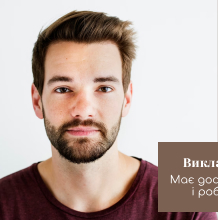
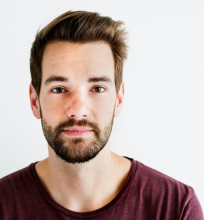
team section / media finished feedback section / desctop markup finished

diff --git a/app/css/style.min.css b/app/css/style.min.css
@@ -1,1 +1,1 @@
-html{-webkit-box-sizing:border-box;box-sizing:border-box}*,*::after,*::before{-webkit-box-sizing:inherit;box-sizing:inherit}body{font-family:"Comfortaa",cursive;font-size:14px;font-weight:400;line-height:1.2;color:#000}a{text-decoration:none;color:inherit}ul{list-style:none}button{padding:0;border:none;border-radius:0;background-color:rgba(0,0,0,0)}.container{max-width:1180px;padding-left:10px;padding-right:10px;margin:0 auto;padding:0 10px}.section{padding-bottom:150px}.section--decor{position:relative}.section--decor::before{content:"";position:absolute;left:0;bottom:0;background-image:url(../img/section-decor.png);width:22px;height:30px}.section--decor::after{content:"";position:absolute;left:22px;bottom:13px;width:1000%;height:1px;background-color:#7b6152}.title{margin-bottom:15px;font-family:"Yeseva One",cursive;font-size:40px;font-weight:400}.button{padding:18px 54px;font-family:"Comfortaa",cursive;font-size:14px;font-weight:600;background-color:#ffbd59;cursor:pointer}.header{background-color:#fff8f3}.header__inner{padding-top:4px;display:-webkit-box;display:-ms-flexbox;display:flex;-webkit-box-pack:justify;-ms-flex-pack:justify;justify-content:space-between;-webkit-box-align:center;-ms-flex-align:center;align-items:center}.menu__list{display:-webkit-box;display:-ms-flexbox;display:flex;gap:20px}.menu__list-link{text-transform:uppercase}.menu__btn{display:none;-webkit-box-orient:vertical;-webkit-box-direction:normal;-ms-flex-direction:column;flex-direction:column;-webkit-box-pack:justify;-ms-flex-pack:justify;justify-content:space-between;width:30px;height:25px}.menu__btn span{width:100%;height:1px;background-color:#7b6152}.phone{position:relative}.phone::before{position:absolute;content:"";background-image:url(../img/phone.svg);width:20px;height:20px;top:-3px;left:-23px}.main{background-color:#fff8f3;overflow-x:clip}.top{padding:40px 0 150px}.top__inner{position:relative}.top__content{padding:150px 0 250px;width:370px}.top__title{margin-bottom:15px;font-family:"Yeseva One",cursive;font-size:30px;font-weight:400}.top__text{margin-bottom:48px}.top__buy{padding:18px 54px;font-family:"Comfortaa",cursive;font-size:14px;font-weight:600;background-color:#ffbd59;cursor:pointer}.top__img{position:absolute;top:0;left:240px}.about{margin-bottom:150px;padding:50px 0;color:#fafafa;background-color:#a5978e}.about__inner{display:-webkit-box;display:-ms-flexbox;display:flex;-webkit-box-align:center;-ms-flex-align:center;align-items:center}.about__content{width:370px}.about__text{margin-bottom:15px}.about__list{padding-left:110px;padding-bottom:48px;display:-webkit-box;display:-ms-flexbox;display:flex;-webkit-box-align:center;-ms-flex-align:center;align-items:center;gap:0 20px;-ms-flex-preferred-size:930px;flex-basis:930px}.about__item-img{margin-bottom:10px}.about__item-text{font-size:11px}.products__content{gap:50px 90px}.products__item{margin:0 auto;width:290px;text-align:center}.products__item-img{margin-bottom:8px}.products__item-price{margin-bottom:12px;font-family:"Yeseva One",cursive;font-size:16px;font-weight:400}.products__item-title{margin-bottom:16px;font-family:"Yeseva One",cursive;font-size:16px;font-weight:400}.products__item-text{margin-bottom:27px;font-size:12px}.section__inner{display:grid;grid-template-columns:370px auto}.section__content-descr{padding-bottom:92px;display:grid;grid-template-columns:auto auto}.steps__list{gap:70px 25px;counter-reset:number}.steps__item{position:relative;display:-webkit-box;display:-ms-flexbox;display:flex;gap:40px;list-style:none}.steps__item::before{position:absolute;left:0;bottom:0;counter-increment:number;content:"0" counter(number);font-family:"Yeseva One",cursive;font-size:30px;color:#bea495}.steps__item--even::before{right:0;left:auto}.steps__item:nth-child(n+10)::before{content:counter(number)}.steps__item-text{padding-bottom:40px;-ms-flex-preferred-size:174px;flex-basis:174px}.courses__item-img{position:relative;font-family:"Yeseva One",cursive;font-size:11px;color:#fff}.courses__title{position:absolute;top:45%;left:-1px;padding:15px;background-color:#bea495}.courses__time{position:absolute;top:60%;left:-1px;padding:7px 10px;background-color:#bea495}.courses__time span{font-family:Comfortaa;font-size:10px}.courses__price{position:absolute;right:12px;bottom:0px;padding:19px 10px;background-color:#bea495}.team{margin-bottom:150px;padding:80px 0 60px;color:#fff;background-color:#a5978e}.team__content{padding-bottom:0;gap:75px}.team__item{position:relative}.team__item-box{width:165px;padding:15px 10px 16px;position:absolute;right:33px;bottom:8px;text-align:center;background-color:#7b6152;z-index:4}.team__item-name{font-family:"Yeseva One",cursive;font-size:12px}.team__item-descr{font-size:10px}.footer{padding-top:40px;padding-bottom:35px}.footer__inner{display:-webkit-box;display:-ms-flexbox;display:flex;-webkit-box-pack:justify;-ms-flex-pack:justify;justify-content:space-between;-webkit-box-align:center;-ms-flex-align:center;align-items:center}.footer__contacts{width:230px;display:-webkit-box;display:-ms-flexbox;display:flex;-webkit-box-orient:vertical;-webkit-box-direction:normal;-ms-flex-direction:column;flex-direction:column}.footer__social{display:-webkit-box;display:-ms-flexbox;display:flex;gap:15px}.email{margin:17px 0}@media(max-width: 1050px){.steps__item{gap:0 30px}.steps__list{gap:37px 35px}}@media(max-width: 1000px){.container{padding-left:20px;padding-right:20px}.top__content{padding:95px 0 70px;width:333px}.top__img{left:300px}.top__img-l{width:655px}.top__text{margin-bottom:30px}.about__content{width:300px}.about__list{padding-left:20px}.section__inner{grid-template-columns:290px auto;gap:0 10px}.section__text{font-size:10px}.products__content{gap:67px}}@media(max-width: 980px){.steps__title{font-size:30px}.steps__list{gap:25px 35px}.steps__item{gap:0 20px}.steps__item::before{font-size:20px}.steps__item-img{width:85px;-o-object-fit:cover;object-fit:cover}.steps__item-text{font-size:8px}}@media(max-width: 900px){.section__inner{grid-template-columns:200px auto}.products__content{gap:30px 16px}.footer__inner{-ms-flex-wrap:wrap;flex-wrap:wrap}.footer__contacts{padding-top:15px;width:100%;text-align:center}.footer__social{-webkit-box-pack:center;-ms-flex-pack:center;justify-content:center}}@media(max-width: 768px){body{font-size:10px}.container{max-width:640px}.phone::before{width:14px;height:14px;top:-2px;left:-16px;background-size:cover}.top__content{width:230px}.top__title{margin-bottom:20px;font-size:20px}.top__text{margin-bottom:20px}.top__img{left:180px}.about__content{min-width:200px}.about__title{margin-bottom:20px}.about__list{margin-left:27px;margin-bottom:33px;gap:0 10px}.about_item-img{margin-bottom:6px}.about__item-img--size{width:120px}.about__item-img--length{width:190px}.about__item-text{font-size:6px}.title{font-size:15px}.products__item{width:200px}.products__item-img{margin-bottom:6px;width:200px}.products__item-price{margin-bottom:7px;font-size:12px}.products__item-title{margin-bottom:9px;font-size:12px}.products__item-text{margin-bottom:18px;font-size:8px}.button{padding:10px 26px;font-size:12px}.courses__title{padding:6px;top:40%;left:-1px}.courses__time{padding:5px;top:55%;left:-1px}.courses__price{padding:10px;right:0}}@media(max-width: 640px){.container{padding-left:10px;padding-right:10px}.header__menu{-webkit-box-ordinal-group:2;-ms-flex-order:1;order:1}.header__menu-list{position:absolute;top:0;left:0;width:153px;padding:25px 35px 25px 45px;-webkit-box-orient:vertical;-webkit-box-direction:normal;-ms-flex-direction:column;flex-direction:column;-webkit-transform:translateY(-110%);-ms-transform:translateY(-110%);transform:translateY(-110%);-webkit-transition:-webkit-transform .5s ease;transition:-webkit-transform .5s ease;transition:transform .5s ease;transition:transform .5s ease,-webkit-transform .5s ease;color:#fff8f3;background-color:#7b6152;z-index:5}.header__menu-list.menu--open{-webkit-transform:translateY(0%);-ms-transform:translateY(0%);transform:translateY(0%)}.menu__btn{display:-webkit-box;display:-ms-flexbox;display:flex}.section__inner{display:block}.section__descr{margin-bottom:30px;text-align:center}}@media(max-width: 480px){.top{padding:30px 0 50px}.top__content{width:180px}.top__title{margin-bottom:15px;font-size:15px}.top__text{margin-bottom:15px;font-size:8px}.top__img{left:167px}.top__img-l{width:309px}.top__buy{padding:14px 41px;font-size:10px}.about{margin-bottom:50px}.about__inner{-webkit-box-align:end;-ms-flex-align:end;align-items:flex-end}.about__content{max-width:170px}.about__list{margin-left:0;margin-bottom:0;padding-left:10px;gap:0 5px;-webkit-box-align:end;-ms-flex-align:end;align-items:flex-end}.about__item-img--size{width:80px}.about__item-img--length{width:140px}.about__item-text{display:none}.section{padding-bottom:50px}.section__content-descr{padding-bottom:62px}.section__descr{margin:0 auto 30px;width:300px}.steps__list{gap:25px 40px}.footer{padding:50px 0;font-size:14px}.footer__inner{-webkit-box-orient:vertical;-webkit-box-direction:normal;-ms-flex-direction:column;flex-direction:column}.footer__menu{padding:50px 0;text-align:center}.footer__menu-list{-webkit-box-orient:vertical;-webkit-box-direction:normal;-ms-flex-direction:column;flex-direction:column}}@media(max-width: 404px){.steps__list{gap:20px 25px}.steps__item{gap:0 16px}.steps__item-img{width:66px}.steps__item-text{font-size:6px}.courses__content{grid-template-columns:auto}}@media(max-width: 360px){.top__content{padding:20px 0 0;width:200px}.top__title{font-size:18px}.top__text{font-size:10px}.top__img{left:auto;right:0}.top__img-l{width:180px}body{font-size:8px}.about{padding-top:25px;padding-bottom:10px}.about__content{min-width:233px}.about__list{margin-left:12px;padding-left:12px;padding-bottom:30px;gap:0 15px}.about__item-img--length{display:none}.title{margin-bottom:10px}.section__descr{margin:0 auto 25px;width:235px}.products__item{width:150px}.products__content{gap:40px 7px}.products__item-img{width:150px}.products__item-price{margin-bottom:5px;font-size:10px}.products__item-title{font-size:10px}.products__item-text{margin-bottom:16px}.button{padding:8px 20px;font-size:8px}.steps__item-text{font-size:6px}.courses__item,.courses__item img{width:255px}}
+html{-webkit-box-sizing:border-box;box-sizing:border-box}*,*::after,*::before{-webkit-box-sizing:inherit;box-sizing:inherit}body{font-family:"Comfortaa",cursive;font-size:14px;font-weight:400;line-height:1.2;color:#000}a{text-decoration:none;color:inherit}ul{list-style:none}button{padding:0;border:none;border-radius:0;background-color:rgba(0,0,0,0)}.container{max-width:1180px;padding-left:10px;padding-right:10px;margin:0 auto;padding:0 10px}.section{padding-bottom:150px}.section--decor{position:relative}.section--decor::before{content:"";position:absolute;left:0;bottom:0;background-image:url(../img/section-decor.png);width:22px;height:30px}.section--decor::after{content:"";position:absolute;left:22px;bottom:13px;width:1000%;height:1px;background-color:#7b6152}.title{margin-bottom:15px;font-family:"Yeseva One",cursive;font-size:40px;font-weight:400}.button{padding:18px 54px;font-family:"Comfortaa",cursive;font-size:14px;font-weight:600;background-color:#ffbd59;cursor:pointer}.header{background-color:#fff8f3}.header__inner{padding-top:4px;display:-webkit-box;display:-ms-flexbox;display:flex;-webkit-box-pack:justify;-ms-flex-pack:justify;justify-content:space-between;-webkit-box-align:center;-ms-flex-align:center;align-items:center}.menu__list{display:-webkit-box;display:-ms-flexbox;display:flex;gap:20px}.menu__list-link{text-transform:uppercase}.menu__btn{display:none;-webkit-box-orient:vertical;-webkit-box-direction:normal;-ms-flex-direction:column;flex-direction:column;-webkit-box-pack:justify;-ms-flex-pack:justify;justify-content:space-between;width:30px;height:25px}.menu__btn span{width:100%;height:1px;background-color:#7b6152}.phone{position:relative}.phone::before{position:absolute;content:"";background-image:url(../img/phone.svg);width:20px;height:20px;top:-3px;left:-23px}.main{background-color:#fff8f3;overflow-x:clip}.top{padding:40px 0 150px}.top__inner{position:relative}.top__content{padding:150px 0 250px;width:370px}.top__title{margin-bottom:15px;font-family:"Yeseva One",cursive;font-size:30px;font-weight:400}.top__text{margin-bottom:48px}.top__buy{padding:18px 54px;font-family:"Comfortaa",cursive;font-size:14px;font-weight:600;background-color:#ffbd59;cursor:pointer}.top__img{position:absolute;top:0;left:240px}.about{margin-bottom:150px;padding:50px 0;color:#fafafa;background-color:#a5978e}.about__inner{display:-webkit-box;display:-ms-flexbox;display:flex;-webkit-box-align:center;-ms-flex-align:center;align-items:center}.about__content{width:370px}.about__text{margin-bottom:15px}.about__list{padding-left:110px;padding-bottom:48px;display:-webkit-box;display:-ms-flexbox;display:flex;-webkit-box-align:center;-ms-flex-align:center;align-items:center;gap:0 20px;-ms-flex-preferred-size:930px;flex-basis:930px}.about__item-img{margin-bottom:10px}.about__item-text{font-size:11px}.products__content{gap:50px 90px}.products__item{margin:0 auto;width:290px;text-align:center}.products__item-img{margin-bottom:8px}.products__item-price{margin-bottom:12px;font-family:"Yeseva One",cursive;font-size:16px;font-weight:400}.products__item-title{margin-bottom:16px;font-family:"Yeseva One",cursive;font-size:16px;font-weight:400}.products__item-text{margin-bottom:27px;font-size:12px}.section__inner{display:grid;grid-template-columns:370px auto}.section__content-descr{padding-bottom:92px;display:grid;grid-template-columns:auto auto}.steps__list{gap:70px 25px;counter-reset:number}.steps__item{position:relative;display:-webkit-box;display:-ms-flexbox;display:flex;gap:40px;list-style:none}.steps__item::before{position:absolute;left:0;bottom:0;counter-increment:number;content:"0" counter(number);font-family:"Yeseva One",cursive;font-size:30px;color:#bea495}.steps__item--even::before{right:0;left:auto}.steps__item:nth-child(n+10)::before{content:counter(number)}.steps__item-text{padding-bottom:40px;-ms-flex-preferred-size:174px;flex-basis:174px}.courses__item-img{position:relative;font-family:"Yeseva One",cursive;font-size:11px;color:#fff}.courses__title{position:absolute;top:45%;left:-1px;padding:15px;background-color:#bea495}.courses__time{position:absolute;top:60%;left:-1px;padding:7px 10px;background-color:#bea495}.courses__time span{font-family:Comfortaa;font-size:10px}.courses__price{position:absolute;right:12px;bottom:0px;padding:19px 10px;background-color:#bea495}.team{margin-bottom:150px;padding:80px 0 60px;color:#fff;background-color:#a5978e}.team__content{padding-bottom:0;gap:75px}.team__item{position:relative}.team__item-box{width:165px;padding:15px 10px 16px;position:absolute;right:33px;bottom:8px;text-align:center;background-color:#7b6152;z-index:4}.team__item-name{font-family:"Yeseva One",cursive;font-size:12px}.team__item-descr{font-size:10px}.feedback__descr{margin-right:20px}.feedback__slider{width:760px;overflow:hidden}.feedback__content{padding-bottom:110px}.feedback__content .swiper-pagination{bottom:50px}.feedback__item{display:grid;grid-template-columns:auto auto;gap:0 16px;-webkit-box-align:center;-ms-flex-align:center;align-items:center}.feedback__item-video{position:relative}.feedback__item-videobtn{padding:0;position:absolute;top:50%;left:50%;-webkit-transform:translate(-50%, -50%);-ms-transform:translate(-50%, -50%);transform:translate(-50%, -50%);background-color:rgba(0,0,0,0)}.feedback__item-content{padding-bottom:70px}.feedback__item-sociallink{margin-bottom:12px}.feedback__item-name{margin-bottom:15px;font-family:"Yeseva One",cursive;font-size:16px}.feedback__item-text{margin-bottom:15px;font-size:12px}.feedback__item-btn{position:absolute;right:0;bottom:10px}.swiper-pagination-bullet{width:53px;height:4px;border-radius:0;opacity:1;background-color:#bea495}.swiper-pagination-bullet-active{background-color:#7b6152}.footer{padding-top:40px;padding-bottom:35px}.footer__inner{display:-webkit-box;display:-ms-flexbox;display:flex;-webkit-box-pack:justify;-ms-flex-pack:justify;justify-content:space-between;-webkit-box-align:center;-ms-flex-align:center;align-items:center}.footer__contacts{width:230px;display:-webkit-box;display:-ms-flexbox;display:flex;-webkit-box-orient:vertical;-webkit-box-direction:normal;-ms-flex-direction:column;flex-direction:column}.footer__social{display:-webkit-box;display:-ms-flexbox;display:flex;gap:15px}.email{margin:17px 0}@media(max-width: 1050px){.steps__item{gap:0 30px}.steps__list{gap:37px 35px}}@media(max-width: 1000px){.container{padding-left:20px;padding-right:20px}.top__content{padding:95px 0 70px;width:333px}.top__img{left:300px}.top__img-l{width:655px}.top__text{margin-bottom:30px}.about__content{width:300px}.about__list{padding-left:20px}.section__inner{grid-template-columns:290px auto;gap:0 10px}.section__text{font-size:10px}.products__content{gap:67px}.team{padding:50px 0}.team__content{gap:30px 20px}}@media(max-width: 980px){.steps__title{font-size:30px}.steps__list{gap:25px 35px}.steps__item{gap:0 20px}.steps__item::before{font-size:20px}.steps__item-img{width:85px;-o-object-fit:cover;object-fit:cover}.steps__item-text{font-size:8px}}@media(max-width: 900px){.section__inner{grid-template-columns:200px auto}.products__content{gap:30px 16px}.footer__inner{-ms-flex-wrap:wrap;flex-wrap:wrap}.footer__contacts{padding-top:15px;width:100%;text-align:center}.footer__social{-webkit-box-pack:center;-ms-flex-pack:center;justify-content:center}.team__title{font-size:35px}}@media(max-width: 768px){body{font-size:10px}.container{max-width:640px}.phone::before{width:14px;height:14px;top:-2px;left:-16px;background-size:cover}.top__content{width:230px}.top__title{margin-bottom:20px;font-size:20px}.top__text{margin-bottom:20px}.top__img{left:180px}.about__content{min-width:200px}.about__title{margin-bottom:20px}.about__list{margin-left:27px;margin-bottom:33px;gap:0 10px}.about_item-img{margin-bottom:6px}.about__item-img--size{width:120px}.about__item-img--length{width:190px}.about__item-text{font-size:6px}.title{font-size:15px}.products__item{width:200px}.products__item-img{margin-bottom:6px;width:200px}.products__item-price{margin-bottom:7px;font-size:12px}.products__item-title{margin-bottom:9px;font-size:12px}.products__item-text{margin-bottom:18px;font-size:8px}.button{padding:10px 26px;font-size:12px}.courses__title{padding:6px;top:40%;left:-1px}.courses__time{padding:5px;top:55%;left:-1px}.courses__price{padding:10px;right:0}.team__item-box{width:109px;padding:9px 6px 10px;right:-15px;bottom:6px}.team__item-name{font-family:"Yeseva One",cursive;font-size:8px}.team__item-descr{font-size:7px}.team__img{width:140px}}@media(max-width: 640px){.container{padding-left:10px;padding-right:10px}.header__menu{-webkit-box-ordinal-group:2;-ms-flex-order:1;order:1}.header__menu-list{position:absolute;top:0;left:0;width:153px;padding:25px 35px 25px 45px;-webkit-box-orient:vertical;-webkit-box-direction:normal;-ms-flex-direction:column;flex-direction:column;-webkit-transform:translateY(-110%);-ms-transform:translateY(-110%);transform:translateY(-110%);-webkit-transition:-webkit-transform .5s ease;transition:-webkit-transform .5s ease;transition:transform .5s ease;transition:transform .5s ease,-webkit-transform .5s ease;color:#fff8f3;background-color:#7b6152;z-index:5}.header__menu-list.menu--open{-webkit-transform:translateY(0%);-ms-transform:translateY(0%);transform:translateY(0%)}.menu__btn{display:-webkit-box;display:-ms-flexbox;display:flex}.section__inner{display:block}.section__descr{margin-bottom:30px;text-align:center}.team__item-box{right:auto;left:80px}}@media(max-width: 480px){.top{padding:30px 0 50px}.top__content{width:180px}.top__title{margin-bottom:15px;font-size:15px}.top__text{margin-bottom:15px;font-size:8px}.top__img{left:167px}.top__img-l{width:309px}.top__buy{padding:14px 41px;font-size:10px}.about{margin-bottom:50px}.about__inner{-webkit-box-align:end;-ms-flex-align:end;align-items:flex-end}.about__content{max-width:170px}.about__list{margin-left:0;margin-bottom:0;padding-left:10px;gap:0 5px;-webkit-box-align:end;-ms-flex-align:end;align-items:flex-end}.about__item-img--size{width:80px}.about__item-img--length{width:140px}.about__item-text{display:none}.section{padding-bottom:50px}.section__content-descr{padding-bottom:62px}.section__descr{margin:0 auto 30px;width:300px}.steps__list{gap:25px 40px}.team{margin-bottom:50px}.footer{padding:50px 0;font-size:14px}.footer__inner{-webkit-box-orient:vertical;-webkit-box-direction:normal;-ms-flex-direction:column;flex-direction:column}.footer__menu{padding:50px 0;text-align:center}.footer__menu-list{-webkit-box-orient:vertical;-webkit-box-direction:normal;-ms-flex-direction:column;flex-direction:column}}@media(max-width: 404px){.steps__list{gap:20px 25px}.steps__item{gap:0 16px}.steps__item-img{width:66px}.steps__item-text{font-size:6px}.courses__content{grid-template-columns:auto}.team__content{grid-template-columns:auto}.team__item-box{width:151px;bottom:11px;left:145px}.team__item-name{font-size:12px}.team__item-descr{font-size:10px}.team__img{width:204px}}@media(max-width: 360px){.top__content{padding:20px 0 0;width:200px}.top__title{font-size:18px}.top__text{font-size:10px}.top__img{left:auto;right:0}.top__img-l{width:180px}body{font-size:8px}.about{padding-top:25px;padding-bottom:10px}.about__content{min-width:233px}.about__list{margin-left:12px;padding-left:12px;padding-bottom:30px;gap:0 15px}.about__item-img--length{display:none}.title{margin-bottom:10px}.section__descr{margin:0 auto 25px;width:235px}.products__item{width:150px}.products__content{gap:40px 7px}.products__item-img{width:150px}.products__item-price{margin-bottom:5px;font-size:10px}.products__item-title{font-size:10px}.products__item-text{margin-bottom:16px}.button{padding:8px 20px;font-size:8px}.steps__item-text{font-size:6px}.courses__item,.courses__item img{width:255px}}

diff --git a/app/index.html b/app/index.html
@@ -10,6 +10,7 @@
   <link href="https://fonts.googleapis.com/css2?family=Comfortaa&family=Yeseva+One&display=swap" rel="stylesheet" />
   <title>Document</title>
   <link rel="stylesheet" href="css/reset.css">
+  <link rel="stylesheet" href="https://cdn.jsdelivr.net/npm/swiper@10/swiper-bundle.min.css" />
   <link rel="stylesheet" href="css/style.min.css" />
 </head>
 
@@ -303,7 +304,7 @@
     <section class="team section">
       <div class="container section__inner">
         <div class=" section__descr">
-          <h2 class=" title">
+          <h2 class="team__title title">
             Наші викладачі
           </h2>
           <p class=" section__text">
@@ -340,6 +341,146 @@
             </div>
           </div>
         </div>
+      </div>
+    </section>
+
+    <section class="feedback section">
+      <div class="container section__inner">
+        <div class="feedback__descr section__descr">
+          <h2 class="title">
+            Відгуки від клієнтів
+          </h2>
+          <p class="section__text">
+            Наші покупці мають різний вік, статус, заняття і інтереси, але у них є одна спільна риса - вони прагнуть до
+            гармонії і знаходять радість у маленьких радощах життя, які створюють атмосферу затишку та гармонії у
+            їхньому домі.
+          </p>
+        </div>
+        <div class="feedback__content section--decor">
+          <div class="feedback__slider">
+            <div class="swiper-wrapper">
+              <div class="swiper-slide">
+                <div class="feedback__item">
+                  <div class="feedback__item-video">
+                    <img class="feedback__item-img" src="img/slide.jpg" alt="candle">
+                    <button class="feedback__item-videobtn">
+                      <img class="feedback__item-img" src="img/btn.svg" alt="button">
+                    </button>
+                  </div>
+                  <div class="feedback__item-content">
+                    <a class="feedback__item-sociallink" href="#">
+                      <img src="img/instagram.svg" alt="instagram">
+                    </a>
+                    <p class="feedback__item-name">Іван Пилипенко</p>
+                    <p class="feedback__item-text">
+                      Я замовив свічку в формі сердечка на День Святого Валентина для моєї
+                      дівчини і вона була просто неймовірна! Запах був дуже приємним і романтичним, а форма сердечка
+                      була досконалою для цього свята. Моя дівчина була дуже задоволена подарунком, і я точно замовлю ще
+                      свічок від цього сайту!"
+                    </p>
+                    <button class="button feedback__item-btn">Купити цей товар</button>
+                  </div>
+                </div>
+              </div>
+              <div class="swiper-slide">
+                <div class="feedback__item">
+                  <div class="feedback__item-video">
+                    <img class="feedback__item-img" src="img/slide.jpg" alt="candle">
+                    <button class="feedback__item-videobtn">
+                      <img class="feedback__item-img" src="img/btn.svg" alt="button">
+                    </button>
+                  </div>
+                  <div class="feedback__item-content">
+                    <a class="feedback__item-sociallink" href="#">
+                      <img src="img/instagram.svg" alt="instagram">
+                    </a>
+                    <p class="feedback__item-name">Іван Пилипенко</p>
+                    <p class="feedback__item-text">
+                      Я замовив свічку в формі сердечка на День Святого Валентина для моєї
+                      дівчини і вона була просто неймовірна! Запах був дуже приємним і романтичним, а форма сердечка
+                      була досконалою для цього свята. Моя дівчина була дуже задоволена подарунком, і я точно замовлю ще
+                      свічок від цього сайту!"
+                    </p>
+                    <button class="button feedback__item-btn">Купити цей товар</button>
+                  </div>
+                </div>
+              </div>
+              <div class="swiper-slide">
+                <div class="feedback__item">
+                  <div class="feedback__item-video">
+                    <img class="feedback__item-img" src="img/slide.jpg" alt="candle">
+                    <button class="feedback__item-videobtn">
+                      <img class="feedback__item-img" src="img/btn.svg" alt="button">
+                    </button>
+                  </div>
+                  <div class="feedback__item-content">
+                    <a class="feedback__item-sociallink" href="#">
+                      <img src="img/instagram.svg" alt="instagram">
+                    </a>
+                    <p class="feedback__item-name">Іван Пилипенко</p>
+                    <p class="feedback__item-text">
+                      Я замовив свічку в формі сердечка на День Святого Валентина для моєї
+                      дівчини і вона була просто неймовірна! Запах був дуже приємним і романтичним, а форма сердечка
+                      була досконалою для цього свята. Моя дівчина була дуже задоволена подарунком, і я точно замовлю ще
+                      свічок від цього сайту!"
+                    </p>
+                    <button class="button feedback__item-btn">Купити цей товар</button>
+                  </div>
+                </div>
+              </div>
+              <div class="swiper-slide">
+                <div class="feedback__item">
+                  <div class="feedback__item-video">
+                    <img class="feedback__item-img" src="img/slide.jpg" alt="candle">
+                    <button class="feedback__item-videobtn">
+                      <img class="feedback__item-img" src="img/btn.svg" alt="button">
+                    </button>
+                  </div>
+                  <div class="feedback__item-content">
+                    <a class="feedback__item-sociallink" href="#">
+                      <img src="img/instagram.svg" alt="instagram">
+                    </a>
+                    <p class="feedback__item-name">Іван Пилипенко</p>
+                    <p class="feedback__item-text">
+                      Я замовив свічку в формі сердечка на День Святого Валентина для моєї
+                      дівчини і вона була просто неймовірна! Запах був дуже приємним і романтичним, а форма сердечка
+                      була досконалою для цього свята. Моя дівчина була дуже задоволена подарунком, і я точно замовлю ще
+                      свічок від цього сайту!"
+                    </p>
+                    <button class="button feedback__item-btn">Купити цей товар</button>
+                  </div>
+                </div>
+              </div>
+            </div>
+            <div class="swiper-pagination"></div>
+          </div>
+        </div>
+      </div>
+    </section>
+
+    <section class="certificate section">
+      <div class="container section__inner">
+        <div class="section__descr">
+          <h2 class="title">
+            Сертифікати
+            якості
+          </h2>
+          <p class="section__text">
+            Сертифікати забезпечують додаткову довіру та впевненість для наших клієнтів.
+          </p>
+        </div>
+        <div class="certificate__content section__content-descr section--decor"></div>
+      </div>
+    </section>
+
+    <section class="faq section">
+      <div class="container section__inner">
+        <div class="section__descr">
+          <h2 class="title">
+            Часті запитання
+          </h2>
+        </div>
+        <div class="faq__content section__content-descr"></div>
       </div>
     </section>
   </main>
@@ -404,6 +545,7 @@
     </div>
   </footer>
 
+  <script src="https://cdn.jsdelivr.net/npm/swiper@10/swiper-bundle.min.js"></script>
   <script src="js/main.min.js"></script>
 </body>
 

diff --git a/app/scss/style.scss b/app/scss/style.scss
@@ -342,6 +342,69 @@ button {
   }
 }
 
+.feedback {
+  &__descr {
+    margin-right: 20px;
+  }
+  &__slider {
+    width: 760px;
+    overflow: hidden;
+  }
+  &__content {
+    padding-bottom: 110px;
+  }
+  &__content .swiper-pagination {
+    bottom: 50px;
+  }
+  &__item {
+    display: grid;
+    grid-template-columns: auto auto;
+    gap: 0 16px;
+    align-items: center;
+  }
+  &__item-video {
+    position: relative;
+  }
+  &__item-videobtn {
+    padding: 0;
+    position: absolute;
+    top: 50%;
+    left: 50%;
+    transform: translate(-50%, -50%);
+    background-color: transparent;
+  }
+  &__item-content {
+    padding-bottom: 70px;
+  }
+  &__item-sociallink {
+    margin-bottom: 12px;
+  }
+  &__item-name {
+    margin-bottom: 15px;
+    font-family: "Yeseva One", cursive;
+    font-size: 16px;
+  }
+  &__item-text {
+    margin-bottom: 15px;
+    font-size: 12px;
+  }
+  &__item-btn {
+    position: absolute;
+    right: 0;
+    bottom: 10px;
+  }
+}
+.swiper-pagination-bullet {
+  width: 53px;
+  height: 4px;
+  border-radius: 0;
+  opacity: 1;
+  background-color: #bea495;
+}
+.swiper-pagination-bullet-active {
+  background-color: #7b6152;
+}
+
 .footer {
   padding-top: 40px;
   padding-bottom: 35px;
@@ -421,6 +484,12 @@ button {
       gap: 67px;
     }
   }
+  .team {
+    padding: 50px 0;
+    &__content {
+      gap: 30px 20px;
+    }
+  }
 }
 
 @media (max-width: 980px) {
@@ -470,6 +539,11 @@ button {
     }
     &__social {
       justify-content: center;
+    }
+  }
+  .team {
+    &__title {
+      font-size: 35px;
     }
   }
 }
@@ -574,6 +648,24 @@ button {
       right: 0;
     }
   }
+  .team {
+    &__item-box {
+      width: 109px;
+      padding: 9px 6px 10px;
+      right: -15px;
+      bottom: 6px;
+    }
+    &__item-name {
+      font-family: "Yeseva One", cursive;
+      font-size: 8px;
+    }
+    &__item-descr {
+      font-size: 7px;
+    }
+    &__img {
+      width: 140px;
+    }
+  }
 }
 
 @media (max-width: 640px) {
@@ -615,6 +707,12 @@ button {
   .section__descr {
     margin-bottom: 30px;
     text-align: center;
+  }
+  .team {
+    &__item-box {
+      right: auto;
+      left: 80px;
+    }
   }
 }
 
@@ -683,6 +781,9 @@ button {
       gap: 25px 40px;
     }
   }
+  .team {
+    margin-bottom: 50px;
+  }
   .footer {
     padding: 50px 0;
     font-size: 14px;
@@ -717,6 +818,25 @@ button {
   .courses {
     &__content {
       grid-template-columns: auto;
+    }
+  }
+  .team {
+    &__content {
+      grid-template-columns: auto;
+    }
+    &__item-box {
+      width: 151px;
+      bottom: 11px;
+      left: 145px;
+    }
+    &__item-name {
+      font-size: 12px;
+    }
+    &__item-descr {
+      font-size: 10px;
+    }
+    &__img {
+      width: 204px;
     }
   }
 }

diff --git a/app/js/main.min.js b/app/js/main.min.js
@@ -1,1 +1,1 @@
-const menuBtn=document.querySelector(".menu__btn"),menuMobile=document.querySelector(".header__menu-list");menuBtn.addEventListener("click",(()=>{menuMobile.classList.toggle("menu--open")}));
+const menuBtn=document.querySelector(".menu__btn"),menuMobile=document.querySelector(".header__menu-list");menuBtn.addEventListener("click",(()=>{menuMobile.classList.toggle("menu--open")}));const swiperOne=new Swiper(".feedback__slider",{loop:!0,pagination:{el:".swiper-pagination"}});

diff --git a/app/js/main.js b/app/js/main.js
@@ -4,3 +4,11 @@ const menuMobile = document.querySelector(".header__menu-list");
 menuBtn.addEventListener("click", () => {
   menuMobile.classList.toggle("menu--open");
 });
+
+const swiperOne = new Swiper(".feedback__slider", {
+  loop: true,
+
+  pagination: {
+    el: ".swiper-pagination",
+  },
+});
